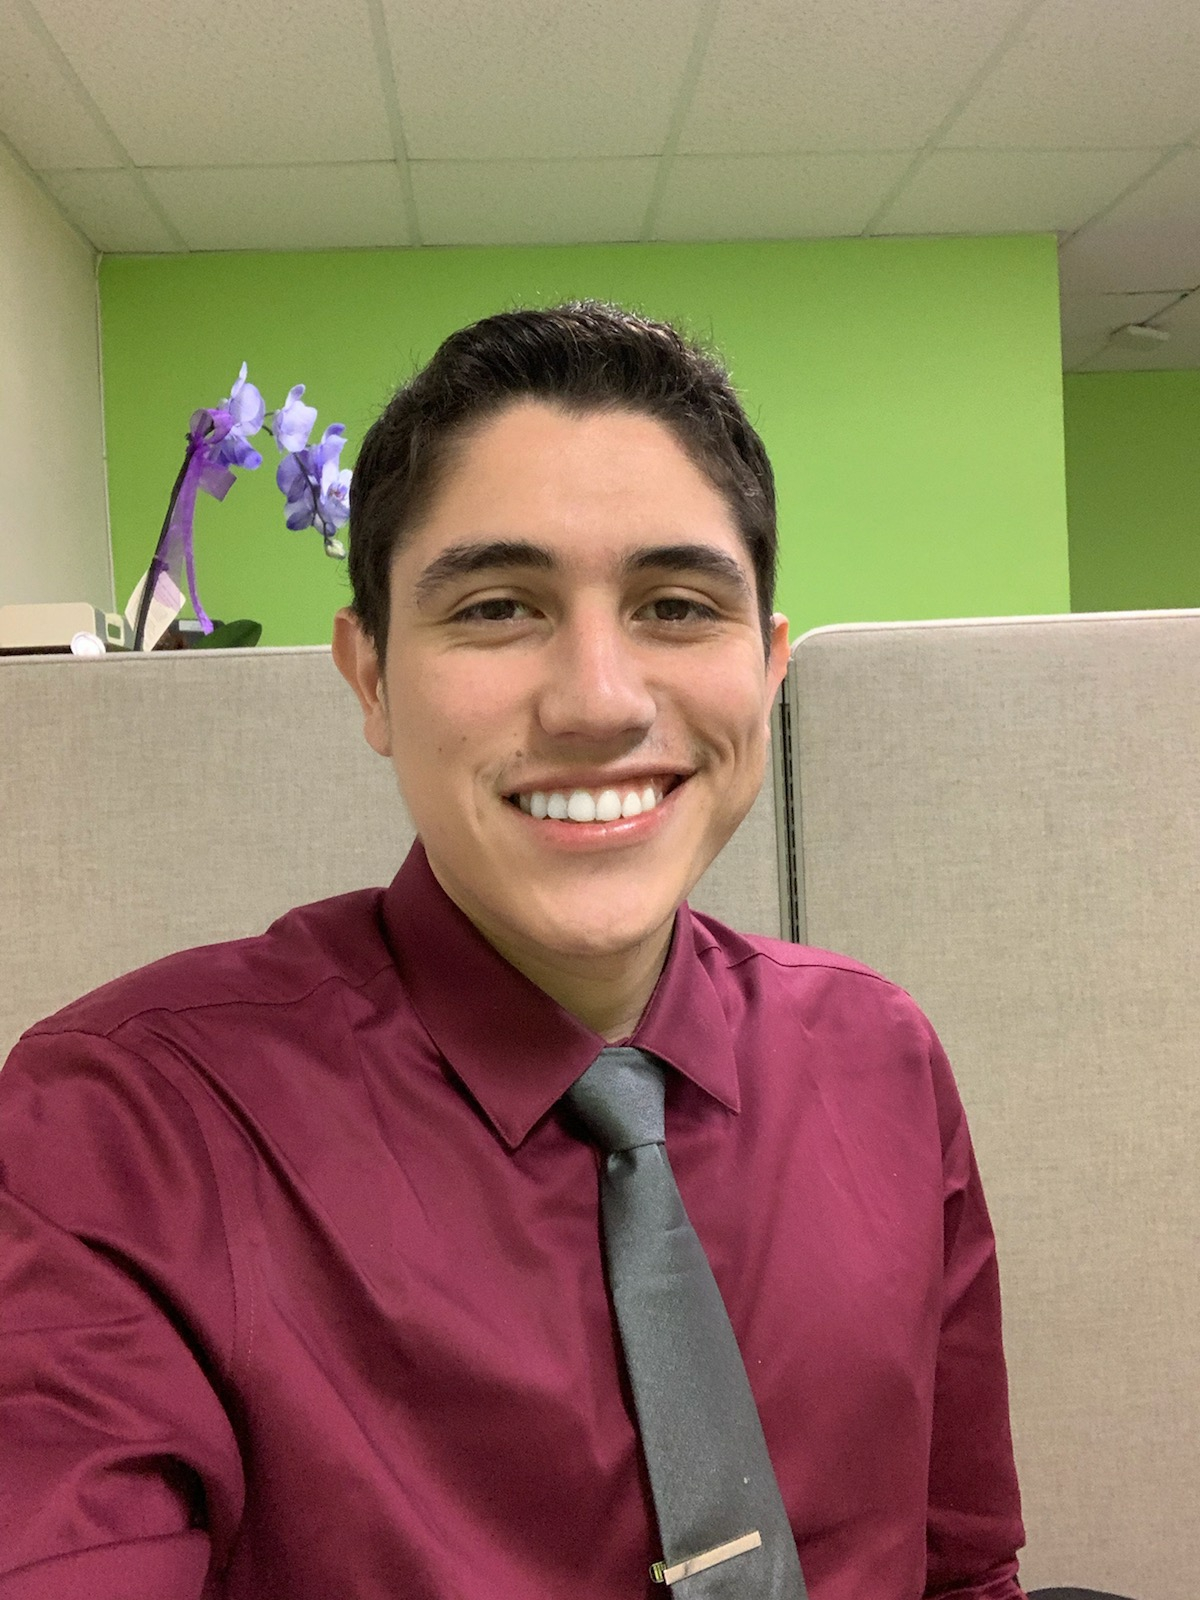
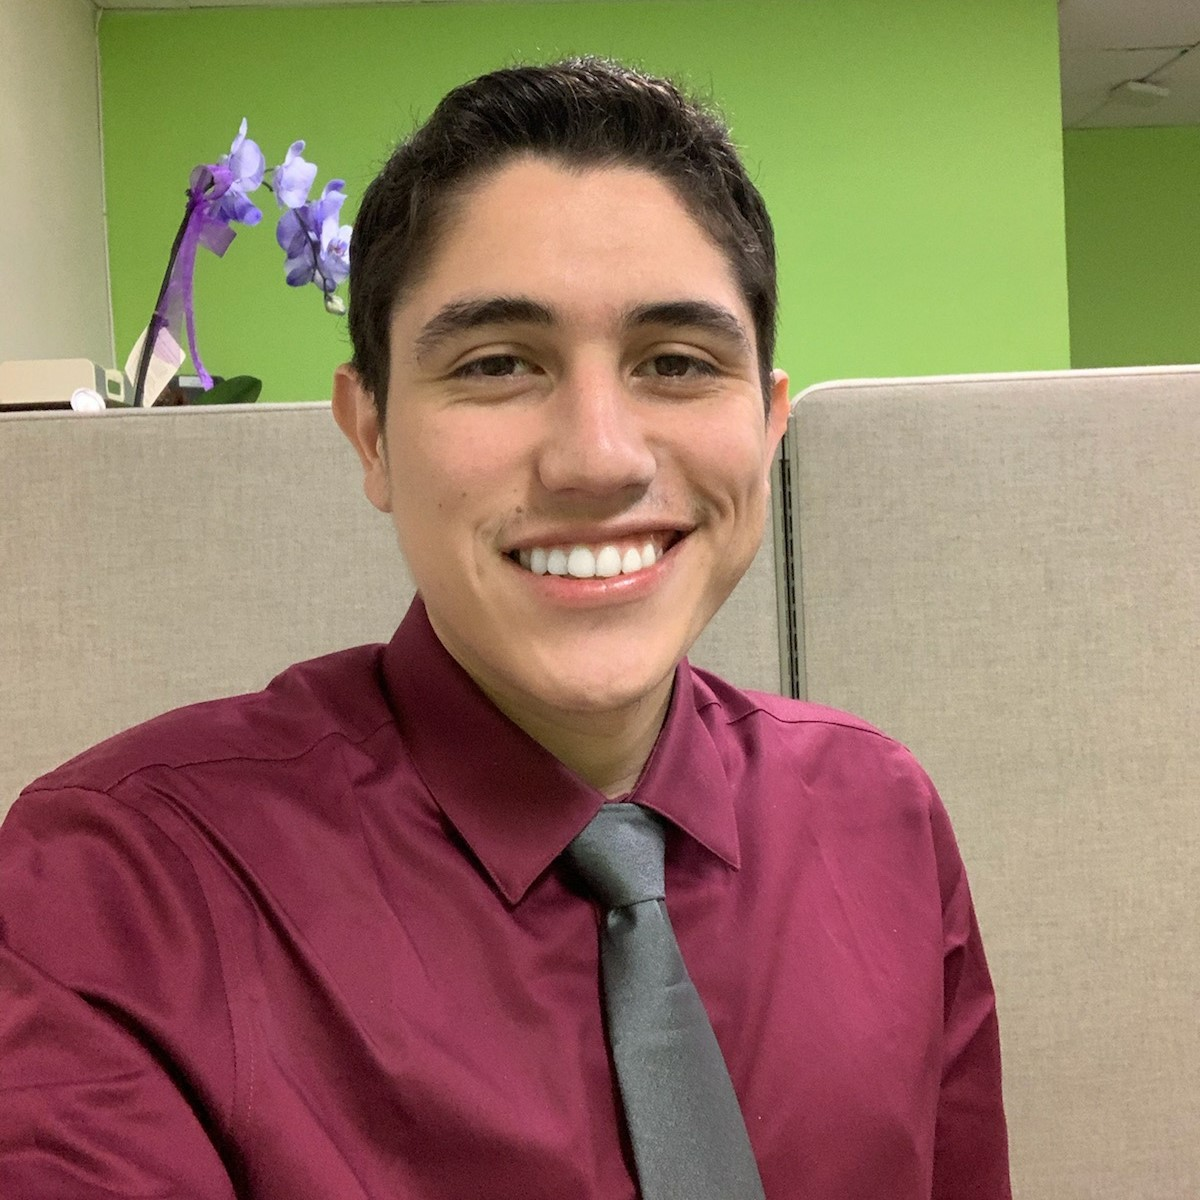
edit pic

diff --git a/bacs200/project/index.html b/bacs200/project/index.html
@@ -195,7 +195,7 @@
 
                     <div class="w3-third">
                         <div class="w3-card-4" style="width:340px">
-                            <img class="card-img-top" src="images/EddieDesk.jpg" alt="Eduardo" style="width:100%">
+                            <img class="card-img-top" src="images/EddieSmile.jpg" alt="Eduardo" style="width:100%">
                             <div class="card-body">
                                 <h4 class="card-title">Eduardo Torres</h4>
                                 <p class="card-text"></p>
@@ -210,7 +210,7 @@
 
                     <div class="w3-third">
                         <div class="w3-card-4" style="width:340px">
-                            <img class="card-img-top" src="images/Farrah2.jpg" alt="Farrah" style="width:100%">
+                            <img class="card-img-top" src="images/Farrah3.jpg" alt="Farrah" style="width:100%">
                             <div class="card-body">
                                 <h4 class="card-title">Farrah Torres</h4>
                                 <p class="card-text"></p>
